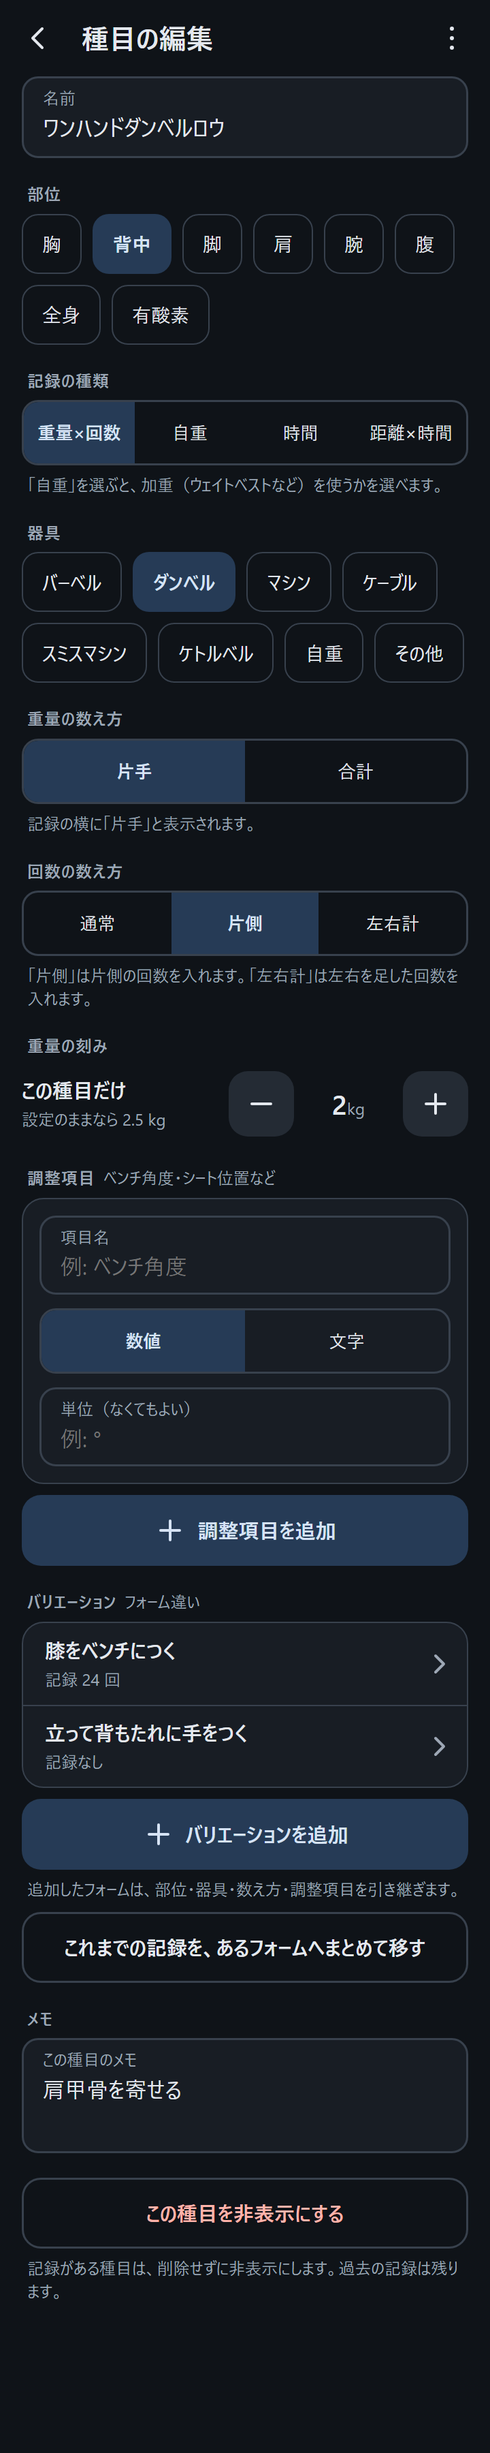
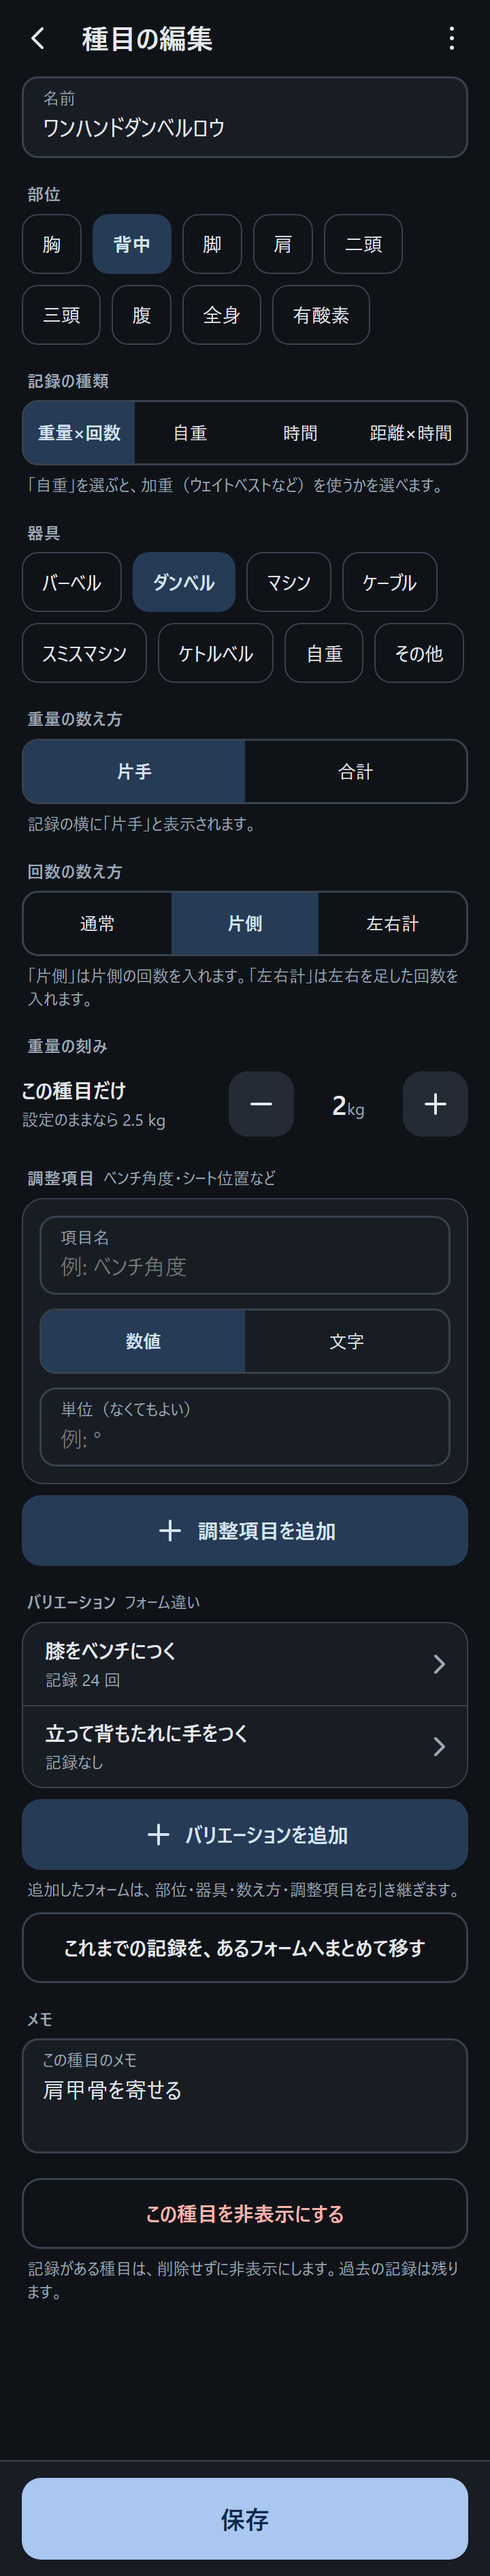
docs(apps/training-log): デザインを、二頭・三頭、下に固定した保存、セット列に合わせる
要件定義 v1.9 に合わせて、キャンバス（Claude Design）と、design/ の写しを直した。

- 種目選択・種目の編集: 部位のチップの「腕」を「二頭」「三頭」にした
- 種目の編集: 「保存」を、画面の下に固定して足した（これまでは、保存ボタンの絵がなかった）。高さを 1890 にした
- 乗り換え用の初期設定: 「セット」の列を足した（空欄でもよい）。4 つの欄が並ぶように、列の幅を細くした

diff --git a/apps/training-log/design/canvas/C11_migrate.dc.html b/apps/training-log/design/canvas/C11_migrate.dc.html
@@ -23,7 +23,7 @@ button{font:inherit;color:inherit;background:none;border:0;text-align:inherit;cu
 .btn{display:flex;align-items:center;justify-content:center;gap:8px;width:100%;min-height:60px;border-radius:16px;font-size:18px;font-weight:700;padding:0 20px;text-align:center}
 .btn.fill{background:var(--pri);color:var(--onpri)}
 .intro{padding:0 20px 10px;font-size:13px;color:var(--sub)}
-.th,.tr{display:grid;grid-template-columns:1fr 64px 52px 64px;gap:6px;align-items:center;padding:0 12px 0 20px}
+.th,.tr{display:grid;grid-template-columns:1fr 58px 46px 42px 58px;gap:4px;align-items:center;padding:0 8px 0 16px}
 .th{position:relative;min-height:28px;font-size:11px;font-weight:700;color:var(--sub);background:var(--sf2);text-align:center}
 .th span:first-child{text-align:left}
 .tr{min-height:64px;border-bottom:1px solid var(--line)}
@@ -45,16 +45,16 @@ button{font:inherit;color:inherit;background:none;border:0;text-align:inherit;cu
     <button type="button" class="ib" aria-label="戻る"><svg class="i" aria-hidden="true"><use href="#back"></use></svg></button>
     <div class="ttl">乗り換え用の初期設定</div>
   </div>
-  <p class="intro">前のアプリの画面を見ながら、種目ごとの直近の値を入れます。入れた値は、はじめのワークアウトで「前回の記録」になり、次のセットの初期値にもなります。</p>
-  <div class="th"><span>種目</span><span>重量 kg</span><span>回数</span><span>自己ベスト</span></div>
+  <p class="intro">前のアプリの画面を見ながら、種目ごとの直近の値を入れます。セット数は空欄でもかまいません。入れた値は、はじめのワークアウトで「前回の記録」になり、次のセットの初期値にもなります。</p>
+  <div class="th"><span>種目</span><span>重量 kg</span><span>回数</span><span>セット</span><span>自己ベスト</span></div>
   <div class="scr">
-    <div class="tr"><div class="nm"><b>ベンチプレス</b><small>バーベル · 合計</small></div><input class="c" type="text" inputmode="decimal" value="60" aria-label="ベンチプレスの重量（kg）"><input class="c" type="text" inputmode="numeric" value="10" aria-label="ベンチプレスの回数"><input class="c" type="text" inputmode="decimal" value="60" aria-label="ベンチプレスの自己ベスト（kg）"></div>
-    <div class="tr"><div class="nm"><b>インクラインダンベルプレス</b><small>ダンベル · 片手</small></div><input class="c" type="text" inputmode="decimal" value="20" aria-label="インクラインダンベルプレスの重量（kg）"><input class="c" type="text" inputmode="numeric" value="10" aria-label="インクラインダンベルプレスの回数"><input class="c" type="text" inputmode="decimal" value="22" aria-label="インクラインダンベルプレスの自己ベスト（kg）"></div>
-    <div class="tr"><div class="nm"><b>ワンハンドダンベルロウ</b><small>ダンベル · 片手 · 片側</small></div><input class="c" type="text" inputmode="decimal" value="26" aria-label="ワンハンドダンベルロウの重量（kg）"><input class="c" type="text" inputmode="numeric" value="10" aria-label="ワンハンドダンベルロウの回数"><input class="c" type="text" inputmode="decimal" value="26" aria-label="ワンハンドダンベルロウの自己ベスト（kg）"></div>
-    <div class="tr"><div class="nm"><b>ラットプルダウン</b><small>マシン · 合計</small></div><input class="c" type="text" inputmode="decimal" value="55" aria-label="ラットプルダウンの重量（kg）"><input class="c" type="text" inputmode="numeric" value="12" aria-label="ラットプルダウンの回数"><input class="c" type="text" inputmode="decimal" value="60" aria-label="ラットプルダウンの自己ベスト（kg）"></div>
-    <div class="tr"><div class="nm"><b>スクワット</b><small>バーベル · 合計</small></div><input class="c" type="text" inputmode="decimal" value="80" aria-label="スクワットの重量（kg）"><input class="c" type="text" inputmode="numeric" value="8" aria-label="スクワットの回数"><input class="c" type="text" inputmode="decimal" value="90" aria-label="スクワットの自己ベスト（kg）"></div>
-    <div class="tr"><div class="nm"><b>懸垂</b><small>自重 · 回数のみ</small></div><input class="c" type="text" value="—" disabled aria-label="懸垂の重量（なし）"><input class="c" type="text" inputmode="numeric" value="8" aria-label="懸垂の回数"><input class="c" type="text" inputmode="numeric" value="10" aria-label="懸垂の自己ベスト（回）"></div>
-    <div class="tr"><div class="nm"><b>プランク</b><small>自重 · 時間（秒）</small></div><input class="c" type="text" value="—" disabled aria-label="プランクの重量（なし）"><input class="c" type="text" inputmode="numeric" value="60" aria-label="プランクの秒数"><input class="c" type="text" inputmode="numeric" value="90" aria-label="プランクの自己ベスト（秒）"></div>
+    <div class="tr"><div class="nm"><b>ベンチプレス</b><small>バーベル · 合計</small></div><input class="c" type="text" inputmode="decimal" value="60" aria-label="ベンチプレスの重量（kg）"><input class="c" type="text" inputmode="numeric" value="10" aria-label="ベンチプレスの回数"><input class="c" type="text" inputmode="numeric" value="3" aria-label="ベンチプレスのセット数"><input class="c" type="text" inputmode="decimal" value="60" aria-label="ベンチプレスの自己ベスト（kg）"></div>
+    <div class="tr"><div class="nm"><b>インクラインダンベルプレス</b><small>ダンベル · 片手</small></div><input class="c" type="text" inputmode="decimal" value="20" aria-label="インクラインダンベルプレスの重量（kg）"><input class="c" type="text" inputmode="numeric" value="10" aria-label="インクラインダンベルプレスの回数"><input class="c" type="text" inputmode="numeric" value="3" aria-label="インクラインダンベルプレスのセット数"><input class="c" type="text" inputmode="decimal" value="22" aria-label="インクラインダンベルプレスの自己ベスト（kg）"></div>
+    <div class="tr"><div class="nm"><b>ワンハンドダンベルロウ</b><small>ダンベル · 片手 · 片側</small></div><input class="c" type="text" inputmode="decimal" value="26" aria-label="ワンハンドダンベルロウの重量（kg）"><input class="c" type="text" inputmode="numeric" value="10" aria-label="ワンハンドダンベルロウの回数"><input class="c" type="text" inputmode="numeric" value="" aria-label="ワンハンドダンベルロウのセット数"><input class="c" type="text" inputmode="decimal" value="26" aria-label="ワンハンドダンベルロウの自己ベスト（kg）"></div>
+    <div class="tr"><div class="nm"><b>ラットプルダウン</b><small>マシン · 合計</small></div><input class="c" type="text" inputmode="decimal" value="55" aria-label="ラットプルダウンの重量（kg）"><input class="c" type="text" inputmode="numeric" value="12" aria-label="ラットプルダウンの回数"><input class="c" type="text" inputmode="numeric" value="4" aria-label="ラットプルダウンのセット数"><input class="c" type="text" inputmode="decimal" value="60" aria-label="ラットプルダウンの自己ベスト（kg）"></div>
+    <div class="tr"><div class="nm"><b>スクワット</b><small>バーベル · 合計</small></div><input class="c" type="text" inputmode="decimal" value="80" aria-label="スクワットの重量（kg）"><input class="c" type="text" inputmode="numeric" value="8" aria-label="スクワットの回数"><input class="c" type="text" inputmode="numeric" value="5" aria-label="スクワットのセット数"><input class="c" type="text" inputmode="decimal" value="90" aria-label="スクワットの自己ベスト（kg）"></div>
+    <div class="tr"><div class="nm"><b>懸垂</b><small>自重 · 回数のみ</small></div><input class="c" type="text" value="—" disabled aria-label="懸垂の重量（なし）"><input class="c" type="text" inputmode="numeric" value="8" aria-label="懸垂の回数"><input class="c" type="text" inputmode="numeric" value="3" aria-label="懸垂のセット数"><input class="c" type="text" inputmode="numeric" value="10" aria-label="懸垂の自己ベスト（回）"></div>
+    <div class="tr"><div class="nm"><b>プランク</b><small>自重 · 時間（秒）</small></div><input class="c" type="text" value="—" disabled aria-label="プランクの重量（なし）"><input class="c" type="text" inputmode="numeric" value="60" aria-label="プランクの秒数"><input class="c" type="text" inputmode="numeric" value="2" aria-label="プランクのセット数"><input class="c" type="text" inputmode="numeric" value="90" aria-label="プランクの自己ベスト（秒）"></div>
     <button type="button" class="addr"><svg class="i s" aria-hidden="true"><use href="#plus"></use></svg>種目を足す</button>
   </div>
   <div class="foot">

diff --git a/apps/training-log/design/canvas/C7_exercise_edit.dc.html b/apps/training-log/design/canvas/C7_exercise_edit.dc.html
@@ -11,7 +11,7 @@
 <style>
 *{box-sizing:border-box;margin:0;padding:0}
 button{font:inherit;color:inherit;background:none;border:0;text-align:inherit;cursor:pointer}
-.app{--bg:#F4F6F9;--sf:#FFFFFF;--sf2:#E4E9F0;--fg:#141A22;--sub:#4D5766;--pri:#1F3A5F;--onpri:#FFFFFF;--con:#D6E3F5;--oncon:#0D2440;--line:#C5CCD6;--err:#BA1A1A;--inv:#2B3340;--oninv:#F1F3F7;--invact:#A9C7F0;width:360px;height:1800px;overflow:hidden;position:relative;background:var(--bg);color:var(--fg);display:flex;flex-direction:column;font-family:system-ui,-apple-system,'Segoe UI',Roboto,'Noto Sans JP','Yu Gothic UI',sans-serif;font-size:14px;line-height:1.4;font-variant-numeric:tabular-nums}
+.app{--bg:#F4F6F9;--sf:#FFFFFF;--sf2:#E4E9F0;--fg:#141A22;--sub:#4D5766;--pri:#1F3A5F;--onpri:#FFFFFF;--con:#D6E3F5;--oncon:#0D2440;--line:#C5CCD6;--err:#BA1A1A;--inv:#2B3340;--oninv:#F1F3F7;--invact:#A9C7F0;width:360px;height:1890px;overflow:hidden;position:relative;background:var(--bg);color:var(--fg);display:flex;flex-direction:column;font-family:system-ui,-apple-system,'Segoe UI',Roboto,'Noto Sans JP','Yu Gothic UI',sans-serif;font-size:14px;line-height:1.4;font-variant-numeric:tabular-nums}
 .app.dark{color-scheme:dark;--bg:#0F1318;--sf:#181D24;--sf2:#242B34;--fg:#E4E8EE;--sub:#9DA7B5;--pri:#A9C7F0;--onpri:#0B2748;--con:#263B56;--oncon:#D6E3F5;--line:#38414D;--err:#FFB4AB;--inv:#E4E8EE;--oninv:#141A22;--invact:#1F3A5F}
 .i{width:24px;height:24px;fill:none;stroke:currentColor;stroke-width:2;stroke-linecap:round;stroke-linejoin:round;flex:none}
 .i.s{width:18px;height:18px}
@@ -48,6 +48,8 @@ button{font:inherit;color:inherit;background:none;border:0;text-align:inherit;cu
 .lst .it .t{flex:1}
 .lst .it .t b{display:block;font-size:15px}
 .lst .it .t small{font-size:12px;color:var(--sub)}
+.btn.fill{background:var(--pri);color:var(--onpri);min-height:60px;font-size:18px}
+.foot{flex:none;margin-top:auto;padding:12px 16px;border-top:1px solid var(--line);background:var(--sf)}
 </style>
 </helmet>
 <svg width="0" height="0" style="position:absolute" aria-hidden="true">
@@ -69,7 +71,7 @@ button{font:inherit;color:inherit;background:none;border:0;text-align:inherit;cu
 
   <div class="sec"><div class="lab">部位</div>
     <div class="chips">
-      <button type="button" class="chip" aria-pressed="false">胸</button><button type="button" class="chip" aria-pressed="true">背中</button><button type="button" class="chip" aria-pressed="false">脚</button><button type="button" class="chip" aria-pressed="false">肩</button><button type="button" class="chip" aria-pressed="false">腕</button><button type="button" class="chip" aria-pressed="false">腹</button><button type="button" class="chip" aria-pressed="false">全身</button><button type="button" class="chip" aria-pressed="false">有酸素</button>
+      <button type="button" class="chip" aria-pressed="false">胸</button><button type="button" class="chip" aria-pressed="true">背中</button><button type="button" class="chip" aria-pressed="false">脚</button><button type="button" class="chip" aria-pressed="false">肩</button><button type="button" class="chip" aria-pressed="false">二頭</button><button type="button" class="chip" aria-pressed="false">三頭</button><button type="button" class="chip" aria-pressed="false">腹</button><button type="button" class="chip" aria-pressed="false">全身</button><button type="button" class="chip" aria-pressed="false">有酸素</button>
     </div>
   </div>
 
@@ -125,9 +127,11 @@ button{font:inherit;color:inherit;background:none;border:0;text-align:inherit;cu
     <button type="button" class="btn line" style="color:var(--err)">この種目を非表示にする</button>
     <p class="help">記録がある種目は、削除せずに非表示にします。過去の記録は残ります。</p>
   </div>
+
+  <div class="foot"><button type="button" class="btn fill">保存</button></div>
 </div>
 </x-dc>
-<script type="text/x-dc" data-dc-script data-props='{"dark":{"editor":"boolean","default":false},"$preview":{"width":360,"height":1800}}'>
+<script type="text/x-dc" data-dc-script data-props='{"dark":{"editor":"boolean","default":false},"$preview":{"width":360,"height":1890}}'>
 class Component extends DCLogic {
   renderVals() {
     return { themeClass: this.props.dark ? 'dark' : '' };

diff --git a/apps/training-log/design/canvas/C6_picker.dc.html b/apps/training-log/design/canvas/C6_picker.dc.html
@@ -72,7 +72,7 @@ button{font:inherit;color:inherit;background:none;border:0;text-align:inherit;cu
   </div>
   <div class="dock">
     <div class="chips" aria-label="部位">
-      <button type="button" class="chip" aria-pressed="true">すべて</button><button type="button" class="chip" aria-pressed="false">胸</button><button type="button" class="chip" aria-pressed="false">背中</button><button type="button" class="chip" aria-pressed="false">脚</button><button type="button" class="chip" aria-pressed="false">肩</button><button type="button" class="chip" aria-pressed="false">腕</button><button type="button" class="chip" aria-pressed="false">腹</button>
+      <button type="button" class="chip" aria-pressed="true">すべて</button><button type="button" class="chip" aria-pressed="false">胸</button><button type="button" class="chip" aria-pressed="false">背中</button><button type="button" class="chip" aria-pressed="false">脚</button><button type="button" class="chip" aria-pressed="false">肩</button><button type="button" class="chip" aria-pressed="false">二頭</button><button type="button" class="chip" aria-pressed="false">三頭</button><button type="button" class="chip" aria-pressed="false">腹</button>
     </div>
     <div class="chips" aria-label="器具">
       <button type="button" class="chip" aria-pressed="false">バーベル</button><button type="button" class="chip" aria-pressed="false">ダンベル</button><button type="button" class="chip" aria-pressed="false">マシン</button><button type="button" class="chip" aria-pressed="false">ケーブル</button><button type="button" class="chip" aria-pressed="false">自重</button>
